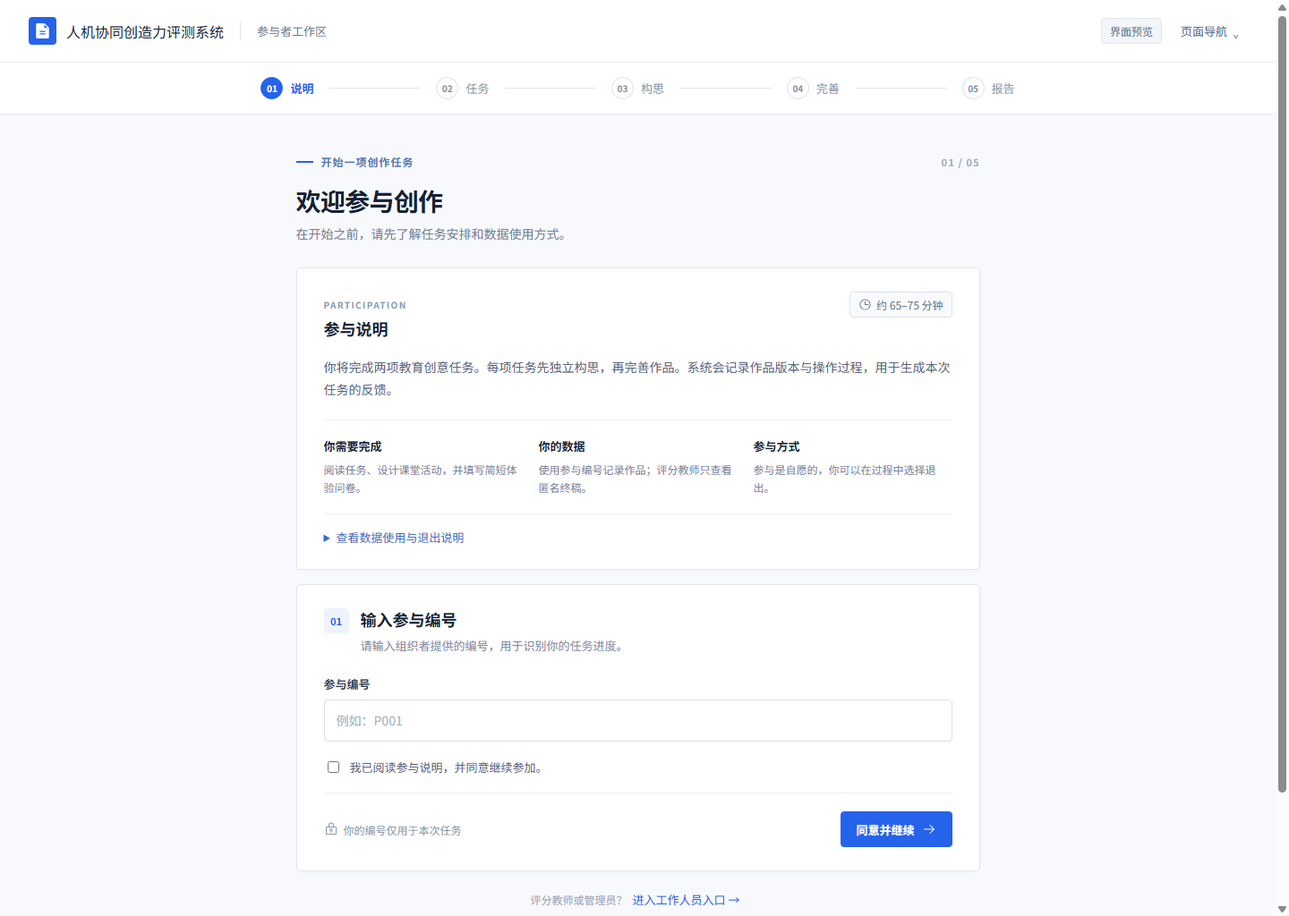
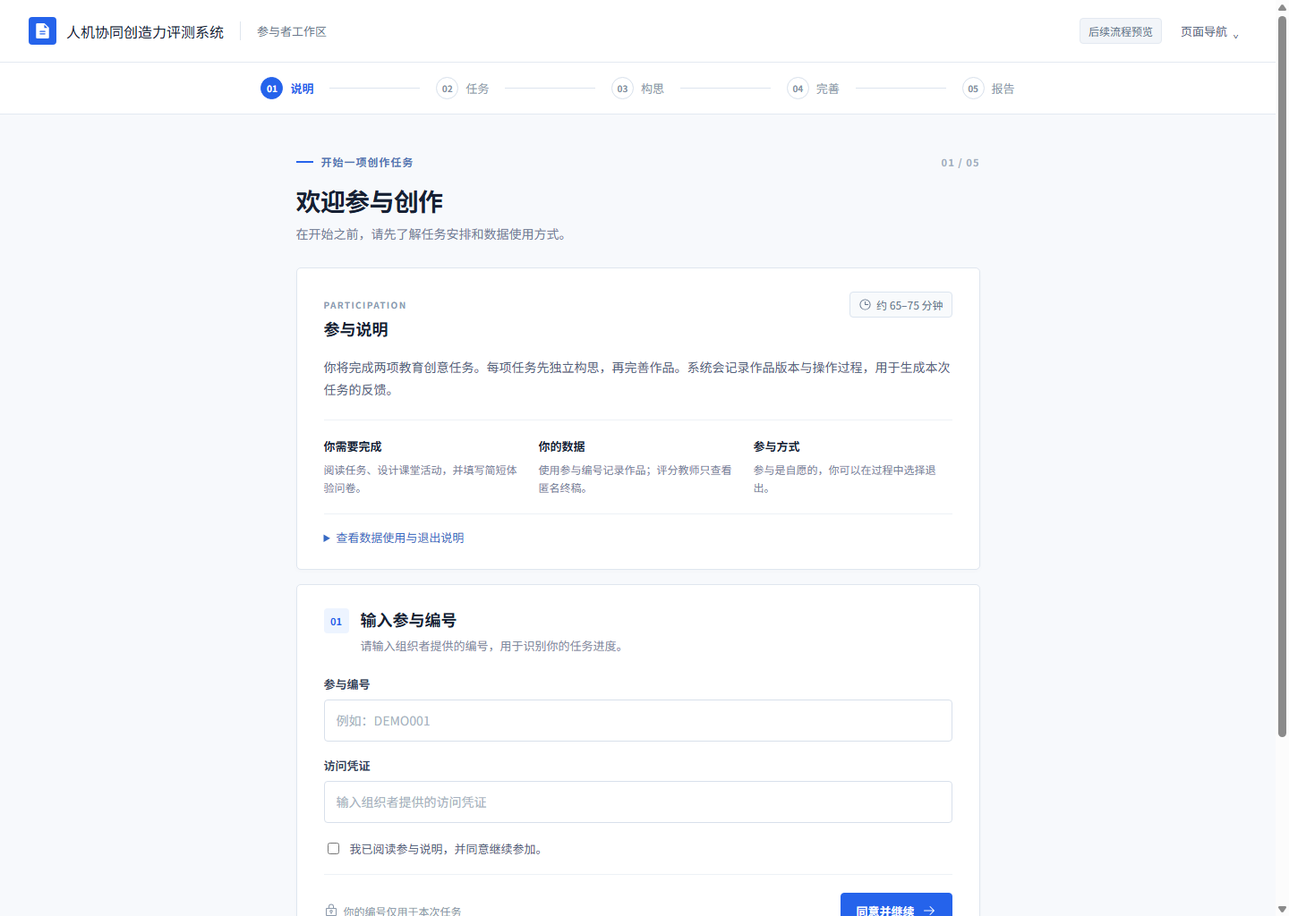
feat: connect participant entry to backend

diff --git a/前端原型-方案2/src/App.vue b/前端原型-方案2/src/App.vue
@@ -1,7 +1,8 @@
 <script setup lang="ts">
-import { computed, nextTick, ref } from 'vue'
+import { computed, nextTick, onMounted, ref } from 'vue'
 import { PhArrowLeft, PhArrowRight, PhCheck, PhCheckCircle, PhClock, PhDownloadSimple, PhFileText, PhInfo, PhListChecks, PhLockKey, PhSignOut, PhSparkle, PhUsers } from '@phosphor-icons/vue'
 import Workbench from './Workbench.vue'
+import { participantApi, type Assignment } from './participant-api'
 import './portal.css'
 
 type Page = 'join' | 'task' | 'idea' | 'work' | 'submit' | 'survey' | 'break' | 'report' | 'staff' | 'teacher' | 'rating' | 'admin'
@@ -10,6 +11,11 @@ const page = ref<Page>('join')
 const round = ref<1 | 2>(1)
 const previewNav = ref(false)
 const studyCode = ref('')
+const credential = ref('')
+const entryLoading = ref(false)
+const assignment = ref<Assignment | null>(null)
+const csrfToken = ref('')
+const previewEpoch = ref(0)
 const consent = ref(false)
 const staffRole = ref<'teacher' | 'admin'>('teacher')
 const staffName = ref('')
@@ -46,14 +52,29 @@ const pageOptions: { id: Page; group: string; label: string }[] = [
   { id: 'admin', group: '管理员', label: '11 研究管理' },
 ]
 const questions = ['我能够清楚表达自己的设计想法。', '我感觉自己能够控制最终作品。', '这个创作界面容易使用。', '我能够判断活动方案是否可实施。', '我认为这个任务值得投入时间。', 'AI 的建议帮助我探索了新的设计方向。']
-const activeQuestions = computed(() => round.value === 1 ? questions : questions.slice(0, 5))
+const taskForRound = (n: number): 'A' | 'B' => n === 1 ? (assignment.value?.task_code ?? 'A') : (assignment.value?.task_code === 'B' ? 'A' : 'B')
+const activeTask = computed(() => taskForRound(round.value))
+const aiEnabled = computed(() => round.value === 1 ? assignment.value?.condition !== 'INDEPENDENT' : assignment.value?.condition === 'INDEPENDENT')
+const activeQuestions = computed(() => aiEnabled.value ? questions : questions.slice(0, 5))
 const dimensions = [
   { name: '新颖性', hint: '学生任务或活动组织是否具有有意义的新组合。' },
   { name: '教育适切性', hint: '目标、学生参与、学习产出与评价是否相互对应。' },
   { name: '可实施性', hint: '步骤、时间与资源是否清晰，能否在普通学校条件下实施。' },
 ]
 function go(next: Page) { page.value = next; error.value = ''; previewNav.value = false; nextTick(() => document.querySelector('.portal')?.scrollTo(0, 0)) }
-function enter() { if (!studyCode.value.trim()) { error.value = '请输入参与编号'; return }; if (!consent.value) { error.value = '请阅读并确认同意后继续'; return }; go('task') }
+async function loadAssignment() { const sessions = await participantApi.sessions(); const first = sessions.find(item => item.round_no === 1); if (!first?.task_code || !first.condition) throw new Error('未找到已分配的任务，请联系管理员。'); assignment.value = first }
+function clearPreviewState() { previewEpoch.value += 1; assignment.value = null; round.value = 1; ideas.value = ['', '', '']; sections.value = []; reports.value = { 1: [], 2: [] }; reportRound.value = 1; survey.value = [0, 0, 0, 0, 0, 0]; submitted.value = false }
+async function enter() {
+  if (!studyCode.value.trim()) { error.value = '请输入参与编号'; return }
+  if (!credential.value) { error.value = '请输入访问凭证'; return }
+  if (!consent.value) { error.value = '请阅读并确认同意后继续'; return }
+  entryLoading.value = true; error.value = ''
+  try { const identity = await participantApi.login(studyCode.value, credential.value); clearPreviewState(); csrfToken.value = identity.csrf_token; await participantApi.consent(identity.csrf_token); await loadAssignment(); studyCode.value = identity.study_code; credential.value = ''; go('task') }
+  catch (e) { error.value = e instanceof Error ? e.message : '登录失败，请稍后再试。' }
+  finally { entryLoading.value = false }
+}
+onMounted(async () => { try { const identity = await participantApi.me(); if (identity.consented) { studyCode.value = identity.study_code; csrfToken.value = identity.csrf_token; await loadAssignment(); go('task') } } catch { /* No valid saved session; show entry. */ } })
+async function participantLogout() { try { await participantApi.logout(csrfToken.value); clearPreviewState(); csrfToken.value = ''; studyCode.value = ''; credential.value = ''; consent.value = false; go('join') } catch (e) { flash(e instanceof Error ? e.message : '退出失败，请稍后再试。') } }
 function staffLogin() { if (!staffName.value.trim() || !staffPassword.value) { error.value = '请输入账号和密码'; return }; go(staffRole.value) }
 function continueFromWorkbench(value: Section[]) { sections.value = value; go('submit') }
 function submitSurvey() { if (survey.value.slice(0, activeQuestions.value.length).some(v => !v)) { error.value = '请先回答所有题目'; return }; reportRound.value = round.value; go(round.value === 1 ? 'break' : 'report') }
@@ -65,18 +86,19 @@ function printReport() { window.print() }
 </script>
 
 <template>
-  <Workbench v-show="page === 'work' && round === 1" :active="page === 'work' && round === 1" task="A" @back="go('idea')" @continue="continueFromWorkbench" />
-  <Workbench v-show="page === 'work' && round === 2" :active="page === 'work' && round === 2" task="B" @back="go('idea')" @continue="continueFromWorkbench" />
+  <Workbench :key="'A-' + previewEpoch" v-show="page === 'work' && activeTask === 'A'" :active="page === 'work' && activeTask === 'A'" :ai-enabled="aiEnabled" task="A" @back="go('idea')" @continue="continueFromWorkbench" />
+  <Workbench :key="'B-' + previewEpoch" v-show="page === 'work' && activeTask === 'B'" :active="page === 'work' && activeTask === 'B'" :ai-enabled="aiEnabled" task="B" @back="go('idea')" @continue="continueFromWorkbench" />
   <div v-if="page !== 'work'" class="portal">
     <header class="portal-header">
       <button class="portal-brand" type="button" @click="go('join')"><span class="portal-logo"><PhFileText :size="21" weight="fill" /></span><span>人机协同创造力评测系统</span></button>
       <span class="portal-divider"></span><span class="portal-context">{{ role === 'participant' ? '参与者工作区' : role === 'staff' ? '工作人员入口' : role === 'teacher' ? '教师评分工作区' : '研究管理工作区' }}</span>
       <div class="portal-header-right">
-        <span class="demo-label">界面预览</span>
+        <span class="demo-label">后续流程预览</span>
         <div class="preview-menu-wrap"><button class="quiet-button" type="button" :aria-expanded="previewNav" @click="previewNav = !previewNav">页面导航 <span>⌄</span></button>
           <div v-if="previewNav" class="preview-menu"><template v-for="group in ['参与者', '评分教师', '管理员']" :key="group"><div class="menu-caption">{{ group }}</div><button v-for="item in pageOptions.filter(p => p.group === group)" :key="item.id" type="button" @click="go(item.id)">{{ item.label }}</button></template></div>
         </div>
-        <button v-if="role === 'teacher' || role === 'admin'" class="quiet-button" type="button" @click="go('staff')"><PhSignOut :size="17" /> 退出</button>
+        <button v-if="role === 'participant' && assignment" class="quiet-button" type="button" @click="participantLogout"><PhSignOut :size="17" /> 退出登录</button>
+        <button v-else-if="role === 'teacher' || role === 'admin'" class="quiet-button" type="button" @click="go('staff')"><PhSignOut :size="17" /> 退出</button>
       </div>
     </header>
 
@@ -87,26 +109,26 @@ function printReport() { window.print() }
       <div class="eyebrow"><span class="eyebrow-line"></span> 开始一项创作任务 <span class="eyebrow-index">01 / 05</span></div>
       <div class="page-title-block"><h1>欢迎参与创作</h1><p>在开始之前，请先了解任务安排和数据使用方式。</p></div>
       <section class="surface intro-surface"><div class="surface-heading"><div><span class="section-kicker">PARTICIPATION</span><h2>参与说明</h2></div><span class="small-tag"><PhClock :size="15" /> 约 65–75 分钟</span></div><p>你将完成两项教育创意任务。每项任务先独立构思，再完善作品。系统会记录作品版本与操作过程，用于生成本次任务的反馈。</p><div class="info-grid"><div><strong>你需要完成</strong><span>阅读任务、设计课堂活动，并填写简短体验问卷。</span></div><div><strong>你的数据</strong><span>使用参与编号记录作品；评分教师只查看匿名终稿。</span></div><div><strong>参与方式</strong><span>参与是自愿的，你可以在过程中选择退出。</span></div></div><details class="inline-details"><summary>查看数据使用与退出说明</summary><p>作品、版本与协作记录将用于本次评测。实际使用前应提供完整的知情说明及联系渠道。</p></details></section>
-      <section class="surface form-surface"><div class="form-title"><span class="section-number">01</span><div><h2>输入参与编号</h2><p>请输入组织者提供的编号，用于识别你的任务进度。</p></div></div><label class="field-label" for="study-code">参与编号</label><input id="study-code" v-model="studyCode" class="field-input" placeholder="例如：P001" /><label class="consent-line"><input v-model="consent" type="checkbox" /> <span>我已阅读参与说明，并同意继续参加。</span></label><p v-if="error" class="form-error" role="alert">{{ error }}</p><div class="form-footer"><span><PhLockKey :size="16" /> 你的编号仅用于本次任务</span><button class="action-primary" type="button" @click="enter">同意并继续 <PhArrowRight :size="16" /></button></div></section>
+      <section class="surface form-surface"><div class="form-title"><span class="section-number">01</span><div><h2>输入参与编号</h2><p>请输入组织者提供的编号，用于识别你的任务进度。</p></div></div><label class="field-label" for="study-code">参与编号</label><input id="study-code" v-model="studyCode" class="field-input" placeholder="例如：DEMO001" /><label class="field-label" for="credential">访问凭证</label><input id="credential" v-model="credential" class="field-input" type="password" autocomplete="current-password" placeholder="输入组织者提供的访问凭证" /><label class="consent-line"><input v-model="consent" type="checkbox" /> <span>我已阅读参与说明，并同意继续参加。</span></label><p v-if="error" class="form-error" role="alert">{{ error }}</p><div class="form-footer"><span><PhLockKey :size="16" /> 你的编号仅用于本次任务</span><button class="action-primary" type="button" :disabled="entryLoading" @click="enter">{{ entryLoading ? "正在验证…" : "同意并继续" }} <PhArrowRight :size="16" /></button></div></section>
       <p class="bottom-note">评分教师或管理员？<button class="inline-link" type="button" @click="go('staff')">进入工作人员入口 →</button></p>
     </main>
 
     <main v-else-if="page === 'staff'" class="page-container narrow-page staff-page"><div class="eyebrow"><span class="eyebrow-line"></span> 工作人员入口 <span class="eyebrow-index">WORKSPACE</span></div><div class="page-title-block"><h1>登录工作区</h1><p>选择你的角色，进入对应的评分或管理工作区。</p></div><section class="surface form-surface"><div class="staff-roles"><button type="button" :class="{ active: staffRole === 'teacher' }" @click="staffRole = 'teacher'"><strong>评分教师</strong><span>查看匿名作品并独立评分</span></button><button type="button" :class="{ active: staffRole === 'admin' }" @click="staffRole = 'admin'"><strong>研究管理员</strong><span>配置任务并查看数据进度</span></button></div><label class="field-label" for="staff-name">账号</label><input id="staff-name" v-model="staffName" class="field-input" autocomplete="username" placeholder="输入工作人员账号" /><label class="field-label" for="staff-password">密码</label><input id="staff-password" v-model="staffPassword" class="field-input" type="password" autocomplete="current-password" placeholder="输入密码" @keyup.enter="staffLogin" /><p v-if="error" class="form-error" role="alert">{{ error }}</p><div class="form-footer staff-footer"><span><PhLockKey :size="16" /> 预览状态：输入任意账号和密码</span><button class="action-primary" type="button" @click="staffLogin">进入工作区 <PhArrowRight :size="16" /></button></div></section><button class="inline-link" type="button" @click="go('join')"><PhArrowLeft :size="15" /> 返回参与者入口</button></main>
 
     <main v-else-if="page === 'task'" class="page-container">
-      <div class="eyebrow"><span class="eyebrow-line"></span> 任务说明 <span class="eyebrow-index">02 / 05</span></div><div class="page-title-block page-title-row"><div><h1>了解你的创作任务</h1><p>阅读任务情境与要求，准备好后再开始计时。</p></div><span class="outlined-tag">{{ round === 1 ? "第一场 · 任务 A" : "第二场 · 任务 B" }}</span></div>
-      <div class="task-layout"><section class="surface task-main"><div class="surface-heading"><div><span class="section-kicker">THE BRIEF</span><h2>{{ round === 1 ? "核验 AI 生成的学习资料" : "评价 AI 生成的学习建议" }}</h2></div><span class="task-id">TASK {{ round === 1 ? "A" : "B" }}</span></div><p class="lead-copy">为高一学生设计一节 40 分钟的 AI 素养课堂活动。</p><h3>情境</h3><p>{{ round === 1 ? "学生经常使用生成式 AI 搜集知识。有时 AI 给出的解释看起来完整，却可能混入错误事实或缺少来源。学校希望帮助学生形成核验 AI 生成资料的习惯。" : "学生使用生成式 AI 制作复习计划，但计划可能忽略个人薄弱环节、时间安排或实际条件。学校希望帮助学生判断和调整 AI 生成的学习建议。" }}</p><h3>你的任务</h3><p>{{ round === 1 ? "设计一项让学生接触可能存在问题的 AI 资料、提出核验办法，并根据核验结果修订资料的课堂活动。" : "设计一项让学生判断 AI 学习建议是否适合具体情况，并根据学习需求改进建议的课堂活动。" }}</p><div class="rule-box"><strong>设计时请注意</strong><ul><li>让学生提出自己的判断，而不只是听教师讲解。</li><li>活动方法应适合普通学校的资源条件。</li><li>教师应能看到学生的判断依据和修订结果。</li></ul></div></section><aside class="task-aside"><section class="surface aside-card"><span class="section-kicker">YOUR OUTPUT</span><h2>你需要提交</h2><ol class="output-list"><li><span>01</span>活动目标</li><li><span>02</span>学生任务</li><li><span>03</span>活动流程与时间</li><li><span>04</span>材料与工具</li><li><span>05</span>评价方式</li></ol></section><section class="surface aside-card"><span class="section-kicker">TIME PLAN</span><h2>任务安排</h2><div class="time-row"><span>独立构思</span><strong>05 <small>分钟</small></strong></div><div class="time-row"><span>完善作品</span><strong>20 <small>分钟</small></strong></div><p class="muted-note">点击开始后进入构思阶段，请尽量一次完成。</p></section></aside></div><div class="page-actions"><button class="action-secondary" type="button" @click="go('join')"><PhArrowLeft :size="16" /> 返回</button><button class="action-primary" type="button" @click="go('idea')">我已理解，开始构思 <PhArrowRight :size="16" /></button></div>
+      <div class="eyebrow"><span class="eyebrow-line"></span> 任务说明 <span class="eyebrow-index">02 / 05</span></div><div class="page-title-block page-title-row"><div><h1>了解你的创作任务</h1><p>阅读任务情境与要求，准备好后再开始计时。</p></div><span class="outlined-tag">{{ round === 1 ? "第一场" : "第二场" }} · 任务 {{ activeTask }}</span></div>
+      <div v-if="assignment" class="notice-strip"><PhInfo :size="19" /><span>编号、同意记录与任务分配已连接服务；创作、评分和 AI 暂为界面预览。</span></div><div class="task-layout"><section class="surface task-main"><div class="surface-heading"><div><span class="section-kicker">THE BRIEF</span><h2>{{ activeTask === "A" ? "核验 AI 生成的学习资料" : "评价 AI 生成的学习建议" }}</h2></div><span class="task-id">TASK {{ activeTask }}</span></div><p class="lead-copy">为高一学生设计一节 40 分钟的 AI 素养课堂活动。</p><h3>情境</h3><p>{{ activeTask === "A" ? "学生经常使用生成式 AI 搜集知识。有时 AI 给出的解释看起来完整，却可能混入错误事实或缺少来源。学校希望帮助学生形成核验 AI 生成资料的习惯。" : "学生使用生成式 AI 制作复习计划，但计划可能忽略个人薄弱环节、时间安排或实际条件。学校希望帮助学生判断和调整 AI 生成的学习建议。" }}</p><h3>你的任务</h3><p>{{ activeTask === "A" ? "设计一项让学生接触可能存在问题的 AI 资料、提出核验办法，并根据核验结果修订资料的课堂活动。" : "设计一项让学生判断 AI 学习建议是否适合具体情况，并根据学习需求改进建议的课堂活动。" }}</p><div class="rule-box"><strong>设计时请注意</strong><ul><li>让学生提出自己的判断，而不只是听教师讲解。</li><li>活动方法应适合普通学校的资源条件。</li><li>教师应能看到学生的判断依据和修订结果。</li></ul></div></section><aside class="task-aside"><section class="surface aside-card"><span class="section-kicker">YOUR OUTPUT</span><h2>你需要提交</h2><ol class="output-list"><li><span>01</span>活动目标</li><li><span>02</span>学生任务</li><li><span>03</span>活动流程与时间</li><li><span>04</span>材料与工具</li><li><span>05</span>评价方式</li></ol></section><section class="surface aside-card"><span class="section-kicker">TIME PLAN</span><h2>任务安排</h2><div class="time-row"><span>独立构思</span><strong>05 <small>分钟</small></strong></div><div class="time-row"><span>完善作品</span><strong>20 <small>分钟</small></strong></div><p class="muted-note">点击开始后进入构思阶段，请尽量一次完成。</p></section></aside></div><div class="page-actions"><button class="action-secondary" type="button" @click="go('join')"><PhArrowLeft :size="16" /> 返回</button><button class="action-primary" type="button" @click="go('idea')">我已理解，开始构思 <PhArrowRight :size="16" /></button></div>
     </main>
 
     <main v-else-if="page === 'idea'" class="page-container medium-page"><div class="eyebrow"><span class="eyebrow-line"></span> 独立构思 <span class="eyebrow-index">03 / 05</span></div><div class="page-title-block page-title-row"><div><h1>先写下你的想法</h1><p>不用追求完整，记录你最初的判断与设计方向。</p></div><div class="time-pill"><PhClock :size="18" /><span>剩余时间</span><strong>05:00</strong></div></div><div class="notice-strip"><PhInfo :size="19" /><span>这一阶段请先独立思考。后续可以继续完善这些想法。</span></div><section class="surface idea-card"><div v-for="(question, index) in ['我想解决的关键问题是什么？', '我准备让学生做什么？', '我怎样判断学习活动是否有效？']" :key="question" class="idea-field"><label :for="'idea-' + index"><span>{{ String(index + 1).padStart(2, '0') }}</span>{{ question }}</label><p>{{ ['例如：学生如何判断 AI 资料是否可信。', '写下你想到的核心活动或学生任务。', '可以考虑学生的可见成果和教师的观察方式。'][index] }}</p><textarea :id="'idea-' + index" v-model="ideas[index]" rows="3" placeholder="在这里记录你的初步想法…"></textarea></div></section><div class="page-actions"><button class="action-secondary" type="button" @click="go('task')"><PhArrowLeft :size="16" /> 返回任务</button><div class="action-group"><span class="save-hint">想法仅在当前预览中保留</span><button class="action-primary" type="button" @click="go('work')">保存想法，进入完善 <PhArrowRight :size="16" /></button></div></div></main>
 
-    <main v-else-if="page === 'submit'" class="page-container medium-page"><div class="eyebrow"><span class="eyebrow-line"></span> 提交作品 <span class="eyebrow-index">04 / 05</span></div><div class="page-title-block"><h1>检查并提交作品</h1><p>提交前请确认五个部分。正式系统中，提交后作品将被锁定。</p></div><div class="notice-strip"><PhInfo :size="19" /><span>当前为界面预览，展示的是本次编辑内容；提交不会发送到服务器。</span></div><section class="surface final-preview"><div class="surface-heading"><div><span class="section-kicker">FINAL REVIEW</span><h2>课堂活动方案</h2></div><span class="outlined-tag">任务 {{ round === 1 ? "A" : "B" }}</span></div><template v-if="sections.length"><section v-for="section in sections" :key="section.label" class="final-section"><h3>{{ section.title }}</h3><div class="preview-html" v-html="section.html"></div></section></template><div v-else class="empty-state">从创作工作台进入后，这里会展示五个章节的内容。<button class="inline-link" type="button" @click="go('work')">前往创作工作台</button></div></section><div class="page-actions"><button class="action-secondary" type="button" @click="go('work')"><PhArrowLeft :size="16" /> 返回修改</button><button class="action-primary" type="button" @click="submitWork">确认提交，填写问卷 <PhArrowRight :size="16" /></button></div></main>
+    <main v-else-if="page === 'submit'" class="page-container medium-page"><div class="eyebrow"><span class="eyebrow-line"></span> 提交作品 <span class="eyebrow-index">04 / 05</span></div><div class="page-title-block"><h1>检查并提交作品</h1><p>提交前请确认五个部分。正式系统中，提交后作品将被锁定。</p></div><div class="notice-strip"><PhInfo :size="19" /><span>当前为界面预览，展示的是本次编辑内容；提交不会发送到服务器。</span></div><section class="surface final-preview"><div class="surface-heading"><div><span class="section-kicker">FINAL REVIEW</span><h2>课堂活动方案</h2></div><span class="outlined-tag">任务 {{ activeTask }}</span></div><template v-if="sections.length"><section v-for="section in sections" :key="section.label" class="final-section"><h3>{{ section.title }}</h3><div class="preview-html" v-html="section.html"></div></section></template><div v-else class="empty-state">从创作工作台进入后，这里会展示五个章节的内容。<button class="inline-link" type="button" @click="go('work')">前往创作工作台</button></div></section><div class="page-actions"><button class="action-secondary" type="button" @click="go('work')"><PhArrowLeft :size="16" /> 返回修改</button><button class="action-primary" type="button" @click="submitWork">确认提交，填写问卷 <PhArrowRight :size="16" /></button></div></main>
 
     <main v-else-if="page === 'survey'" class="page-container medium-page"><div class="eyebrow"><span class="eyebrow-line"></span> 体验反馈 <span class="eyebrow-index">04 / 05</span></div><div class="page-title-block"><h1>分享你的使用体验</h1><p>请根据刚才的任务选择符合你感受的选项。没有对错之分。</p></div><div v-if="submitted" class="success-strip"><PhCheckCircle :size="20" /> 作品已进入提交预览，接下来请完成问卷。</div><section class="surface survey-card"><div class="survey-scale"><span>1　非常不同意</span><span>5　非常同意</span></div><div v-for="(question, index) in activeQuestions" :key="question" class="survey-question"><div><span class="question-number">{{ String(index + 1).padStart(2, '0') }}</span><strong>{{ question }}</strong><small v-if="index === 5">AI 协同场次</small></div><fieldset :aria-label="question"><label v-for="n in 5" :key="n" :class="{ selected: survey[index] === n }"><input v-model="survey[index]" type="radio" :name="'survey-' + index" :value="n" />{{ n }}</label></fieldset></div></section><p v-if="error" class="form-error" role="alert">{{ error }}</p><div class="page-actions"><button class="action-secondary" type="button" @click="go('submit')"><PhArrowLeft :size="16" /> 返回</button><button class="action-primary" type="button" @click="submitSurvey">提交反馈 <PhArrowRight :size="16" /></button></div></main>
 
-    <main v-else-if="page === 'break'" class="page-container narrow-page"><section class="surface break-card"><span class="completion-icon"><PhCheckCircle :size="34" /></span><span class="section-kicker">SESSION COMPLETE</span><h1>第一场任务已完成</h1><p>你已经完成了第一场创作和体验反馈。可以休息片刻，再开始下一场任务。</p><div class="break-summary"><div><span>第一场</span><strong>任务 A</strong><small>已完成</small></div><span class="summary-line"></span><div><span>第二场</span><strong>任务 B</strong><small>待开始</small></div></div><button class="action-primary" type="button" @click="go('report')">查看本场报告 <PhArrowRight :size="16" /></button><button class="inline-link" type="button" @click="startSecond">准备开始第二场</button></section></main>
+    <main v-else-if="page === 'break'" class="page-container narrow-page"><section class="surface break-card"><span class="completion-icon"><PhCheckCircle :size="34" /></span><span class="section-kicker">SESSION COMPLETE</span><h1>第一场任务已完成</h1><p>你已经完成了第一场创作和体验反馈。可以休息片刻，再开始下一场任务。</p><div class="break-summary"><div><span>第一场</span><strong>任务 {{ taskForRound(1) }}</strong><small>已完成</small></div><span class="summary-line"></span><div><span>第二场</span><strong>任务 {{ taskForRound(2) }}</strong><small>待开始</small></div></div><button class="action-primary" type="button" @click="go('report')">查看本场报告 <PhArrowRight :size="16" /></button><button class="inline-link" type="button" @click="startSecond">准备开始第二场</button></section></main>
 
-    <main v-else-if="page === 'report'" class="page-container"><div class="eyebrow"><span class="eyebrow-line"></span> 个人报告 <span class="eyebrow-index">05 / 05</span></div><div class="page-title-block page-title-row"><div><h1>本次创作报告</h1><p>查看作品、评价来源与创作过程，了解这次任务的表现。</p></div><span class="outlined-tag">任务 {{ reportRound === 1 ? "A" : "B" }} · 报告预览</span></div><div class="report-switch" aria-label="选择场次"><button v-for="n in ([1, 2] as const)" :key="n" type="button" :disabled="!reports[n].length" :class="{ active: reportRound === n }" @click="reportRound = n">第 {{ n }} 场 · 任务 {{ n === 1 ? "A" : "B" }}</button></div><div class="report-layout"><div><section class="surface report-card"><div class="surface-heading"><div><span class="section-kicker">TEACHER REVIEW</span><h2>教师评价</h2></div><span class="status-tag pending">等待评分</span></div><div class="pending-panel"><PhClock :size="24" /><div><strong>教师评分尚未完成</strong><p>两位教师完成独立评分后，将在这里展示三个维度的评价和评语。</p></div></div><div class="dimension-placeholder"><div v-for="d in dimensions" :key="d.name"><span>{{ d.name }}</span><div class="empty-bar"></div><small>待评分</small></div></div></section><section class="surface report-card"><div class="surface-heading"><div><span class="section-kicker">AI ASSISTANCE</span><h2>AI 辅助评价</h2></div><span class="status-tag neutral">待生成</span></div><p class="muted-copy">提交后的辅助评价将在这里显示评分依据和改进建议，与教师评分分别呈现。</p></section><section class="surface report-card"><div class="surface-heading"><div><span class="section-kicker">YOUR WORK</span><h2>作品内容</h2></div></div><div v-if="reportSections.length" class="report-sections"><div v-for="section in reportSections" :key="section.label"><strong>{{ section.title }}</strong><div class="preview-html" v-html="section.html"></div></div></div><p v-else class="muted-copy">完成创作后，这里将展示你的最终作品。</p></section></div><aside><section class="surface report-card"><span class="section-kicker">PROCESS</span><h2>创作过程</h2><div class="timeline"><div><span></span><strong>独立构思</strong><small>记录最初的活动想法</small></div><div><span></span><strong>完善作品</strong><small>编辑五个作品章节</small></div><div><span></span><strong>提交与反馈</strong><small>提交终稿并完成问卷</small></div><div><span></span><strong>等待评价</strong><small>教师评分完成后更新</small></div></div></section><p class="report-footnote">本报告反映本次任务中的表现，评价来源和生成时间将在正式系统中标注。</p></aside></div><div class="page-actions"><button class="action-secondary" type="button" @click="go('break')"><PhArrowLeft :size="16" /> 返回场次</button><button class="action-secondary" type="button" @click="printReport"><PhDownloadSimple :size="16" /> 打印报告</button></div></main>
+    <main v-else-if="page === 'report'" class="page-container"><div class="eyebrow"><span class="eyebrow-line"></span> 个人报告 <span class="eyebrow-index">05 / 05</span></div><div class="page-title-block page-title-row"><div><h1>本次创作报告</h1><p>查看作品、评价来源与创作过程，了解这次任务的表现。</p></div><span class="outlined-tag">任务 {{ taskForRound(reportRound) }} · 报告预览</span></div><div class="report-switch" aria-label="选择场次"><button v-for="n in ([1, 2] as const)" :key="n" type="button" :disabled="!reports[n].length" :class="{ active: reportRound === n }" @click="reportRound = n">第 {{ n }} 场 · 任务 {{ taskForRound(n) }}</button></div><div class="report-layout"><div><section class="surface report-card"><div class="surface-heading"><div><span class="section-kicker">TEACHER REVIEW</span><h2>教师评价</h2></div><span class="status-tag pending">等待评分</span></div><div class="pending-panel"><PhClock :size="24" /><div><strong>教师评分尚未完成</strong><p>两位教师完成独立评分后，将在这里展示三个维度的评价和评语。</p></div></div><div class="dimension-placeholder"><div v-for="d in dimensions" :key="d.name"><span>{{ d.name }}</span><div class="empty-bar"></div><small>待评分</small></div></div></section><section class="surface report-card"><div class="surface-heading"><div><span class="section-kicker">AI ASSISTANCE</span><h2>AI 辅助评价</h2></div><span class="status-tag neutral">待生成</span></div><p class="muted-copy">提交后的辅助评价将在这里显示评分依据和改进建议，与教师评分分别呈现。</p></section><section class="surface report-card"><div class="surface-heading"><div><span class="section-kicker">YOUR WORK</span><h2>作品内容</h2></div></div><div v-if="reportSections.length" class="report-sections"><div v-for="section in reportSections" :key="section.label"><strong>{{ section.title }}</strong><div class="preview-html" v-html="section.html"></div></div></div><p v-else class="muted-copy">完成创作后，这里将展示你的最终作品。</p></section></div><aside><section class="surface report-card"><span class="section-kicker">PROCESS</span><h2>创作过程</h2><div class="timeline"><div><span></span><strong>独立构思</strong><small>记录最初的活动想法</small></div><div><span></span><strong>完善作品</strong><small>编辑五个作品章节</small></div><div><span></span><strong>提交与反馈</strong><small>提交终稿并完成问卷</small></div><div><span></span><strong>等待评价</strong><small>教师评分完成后更新</small></div></div></section><p class="report-footnote">本报告反映本次任务中的表现，评价来源和生成时间将在正式系统中标注。</p></aside></div><div class="page-actions"><button class="action-secondary" type="button" @click="go('break')"><PhArrowLeft :size="16" /> 返回场次</button><button class="action-secondary" type="button" @click="printReport"><PhDownloadSimple :size="16" /> 打印报告</button></div></main>
 
     <main v-else-if="page === 'teacher'" class="page-container"><div class="eyebrow"><span class="eyebrow-line"></span> 教师工作台 <span class="eyebrow-index">REVIEW</span></div><div class="page-title-block page-title-row"><div><h1>待评作品</h1><p>请依据量规独立评分。作品已匿名处理，评分提交后将锁定。</p></div><span class="outlined-tag">评分教师 · 演示</span></div><div class="summary-grid three"><div class="summary-card"><span>分配作品</span><strong>03</strong><small>当前批次</small></div><div class="summary-card"><span>待完成</span><strong>{{ ratingSubmitted ? '02' : '03' }}</strong><small>需要独立评分</small></div><div class="summary-card"><span>已提交</span><strong>{{ ratingSubmitted ? '01' : '00' }}</strong><small>评分已锁定</small></div></div><section class="surface table-surface"><div class="table-title"><div><h2>作品列表</h2><p>点击作品编号查看终稿和评分量规。</p></div><span class="muted-copy">共 3 份</span></div><div class="table-scroll"><table><thead><tr><th>匿名作品编号</th><th>任务</th><th>任务版本</th><th>评分状态</th><th></th></tr></thead><tbody><tr v-for="(work, index) in ['W-8F32', 'W-4C17', 'W-9B06']" :key="work"><td><strong>{{ work }}</strong></td><td>{{ index === 1 ? '评价 AI 生成的学习建议' : '核验 AI 生成的学习资料' }}</td><td>V1.0</td><td><span class="status-tag" :class="ratingSubmitted && index === 0 ? 'success' : 'pending'">{{ ratingSubmitted && index === 0 ? '已提交' : '待评分' }}</span></td><td><button class="table-link" type="button" @click="go('rating')">{{ ratingSubmitted && index === 0 ? '查看评分' : '开始评分' }} →</button></td></tr></tbody></table></div></section><p class="bottom-note">预览中三个条目共用同一份示例作品，正式系统将按分配结果显示。</p></main>
 

diff --git a/前端原型-方案2/src/portal.css b/前端原型-方案2/src/portal.css
@@ -48,5 +48,5 @@
 .task-switch { display: flex; gap: 8px; margin-top: 24px; }.task-switch button { padding: 8px 14px; border: 1px solid #dce4ee; border-radius: 4px; background: #fff; color: #61748e; font-size: 13px; }.task-switch button.active { border-color: #92b4ed; background: #f1f6ff; color: #2563eb; }
 .portal-footer { display: flex; justify-content: space-between; max-width: 1192px; margin: 0 auto; padding: 20px 0 25px; border-top: 1px solid #e7edf4; color: #a6b1c1; font-size: 11px; }.portal-toast { position: fixed; z-index: 80; right: 28px; bottom: 28px; padding: 13px 17px; border: 1px solid #d4e1f2; border-radius: 5px; background: white; color: #456385; box-shadow: 0 12px 30px #2238581a; font-size: 13px; }
 @media (max-width: 800px) { .portal-header { padding: 0 16px; }.portal-context, .portal-divider, .demo-label { display: none; }.portal-brand { font-size: 13px; }.page-container { padding: 30px 16px 55px; }.step-line { width: 18px; margin: 0 7px; }.flow-step { font-size: 12px; }.step-number { width: 21px; height: 21px; margin-right: 4px; }.task-layout, .report-layout, .admin-layout, .rating-layout { grid-template-columns: 1fr; }.task-aside { grid-template-columns: 1fr 1fr; }.summary-grid.four { grid-template-columns: repeat(2, 1fr); }.portal-footer { margin: 0 16px; }.survey-question { align-items: flex-start; flex-direction: column; }.survey-scale { justify-content: space-between; }.page-title-block h1, .break-card h1 { font-size: 24px; } }
-@media (max-width: 500px) { .portal-brand span:last-child { max-width: 170px; overflow: hidden; text-overflow: ellipsis; }.portal-header-right { gap: 0; }.flow-nav-inner { padding: 0 8px; }.step-line { width: 8px; margin: 0 4px; }.step-number { display: none; }.intro-surface, .form-surface, .task-main, .idea-card, .final-preview, .report-card, .config-card, .review-work, .rating-card { padding: 20px; }.info-grid, .task-aside { grid-template-columns: 1fr; }.info-grid { gap: 14px; }.page-title-row, .form-footer { align-items: flex-start; flex-direction: column; }.page-actions { align-items: stretch; flex-wrap: wrap; }.action-group { width: 100%; justify-content: space-between; }.summary-grid.three { grid-template-columns: 1fr; }.break-card { padding: 35px 20px; }.export-list { grid-template-columns: 1fr; }.portal-footer span:last-child { display: none; } }
+@media (max-width: 500px) { .portal-header { gap: 8px; }.portal-brand span:last-child { max-width: 125px; overflow: hidden; text-overflow: ellipsis; }.portal-header-right { gap: 0; }.portal-header-right .quiet-button { padding: 6px; font-size: 12px !important; }.flow-nav-inner { padding: 0 8px; }.step-line { width: 8px; margin: 0 4px; }.step-number { display: none; }.intro-surface, .form-surface, .task-main, .idea-card, .final-preview, .report-card, .config-card, .review-work, .rating-card { padding: 20px; }.info-grid, .task-aside { grid-template-columns: 1fr; }.info-grid { gap: 14px; }.page-title-row, .form-footer { align-items: flex-start; flex-direction: column; }.page-actions { align-items: stretch; flex-wrap: wrap; }.action-group { width: 100%; justify-content: space-between; }.summary-grid.three { grid-template-columns: 1fr; }.break-card { padding: 35px 20px; }.export-list { grid-template-columns: 1fr; }.portal-footer span:last-child { display: none; } }
 @media print { .portal-header, .flow-nav, .page-actions, .portal-footer { display: none; }.portal { height: auto; overflow: visible; }.page-container { padding: 0; }.surface { break-inside: avoid; } }

diff --git a/前端原型-方案2/src/Workbench.vue b/前端原型-方案2/src/Workbench.vue
@@ -20,7 +20,7 @@ import {
   PhX,
 } from '@phosphor-icons/vue'
 
-const props = defineProps<{ active: boolean; task: 'A' | 'B' }>()
+const props = defineProps<{ active: boolean; task: 'A' | 'B'; aiEnabled: boolean }>()
 const emit = defineEmits<{ back: []; continue: [sections: { label: string; title: string; html: string }[]] }>()
 
 type SectionId = 'goal' | 'student' | 'flow' | 'resource' | 'assessment'
@@ -98,8 +98,8 @@ const chatOpen = ref(false)
 const chatInput = ref('')
 const chatMessages = ref<{ role: 'user' | 'assistant'; text: string }[]>([])
 const previewOpen = ref(false)
-const originalSuggestion = '在“小组核验与信息查证”阶段增加具体的分工说明，例如设置“资料检索、信息比对、结论撰写、汇报准备”四个角色，以提高小组协作的清晰度。'
-const adoptText = ref(originalSuggestion)
+const originalSuggestion = computed(() => props.task === 'A' ? '在“小组核验与信息查证”阶段增加具体的分工说明，例如设置“资料检索、信息比对、结论撰写、汇报准备”四个角色，以提高小组协作的清晰度。' : '让学生分别从学习目标、可用时间和个人薄弱环节三个方面检查 AI 生成的复习计划，并解释调整依据。')
+const adoptText = ref(originalSuggestion.value)
 const toast = ref('')
 const previewCloseButton = ref<HTMLButtonElement | null>(null)
 const adoptTextarea = ref<HTMLTextAreaElement | null>(null)
@@ -199,7 +199,7 @@ function onPaste(event: ClipboardEvent) {
 async function openAdopt(mode: 'direct' | 'edit') {
   adoptMode.value = mode
   adoptTarget.value = activeId.value
-  adoptText.value = originalSuggestion
+  adoptText.value = originalSuggestion.value
   adoptOpen.value = true
   await nextTick()
   if (mode === 'edit') adoptTextarea.value?.focus()
@@ -362,7 +362,7 @@ onBeforeUnmount(() => {
       </section>
     </main>
 
-    <section v-if="task === 'A'" class="ai-dock" aria-label="AI 建议">
+    <section v-if="aiEnabled" class="ai-dock" aria-label="AI 建议">
       <div class="ai-dock-heading">
         <button class="dock-toggle" type="button" :aria-expanded="adviceExpanded" @click="adviceExpanded = !adviceExpanded">
           <strong>AI 建议</strong>
@@ -373,7 +373,7 @@ onBeforeUnmount(() => {
         <span v-if="!adviceExpanded" class="collapsed-note">点击展开，查看与当前作品相关的建议</span>
       </div>
       <div v-if="adviceExpanded" class="ai-dock-body">
-        <p v-if="suggestionState === 'pending'" class="suggestion-text">建议在“小组核验与信息查证”阶段增加更具体的分工说明，例如设置“资料检索 / 信息比对 / 结论撰写 / 汇报准备”四个角色，这样可以提升小组协作的清晰度，也更有利于保证 20 分钟内完成任务。</p>
+        <p v-if="suggestionState === 'pending'" class="suggestion-text">{{ originalSuggestion }}</p>
         <p v-else-if="suggestionState === 'adopted'" class="suggestion-result"><PhCheckCircle :size="18" />建议已由你确认加入作品；你仍可继续编辑。</p>
         <p v-else class="suggestion-result">你已忽略这条建议，作品内容没有变化。</p>
         <div class="ai-actions">

diff --git a/前端原型-方案2/src/participant-api.ts b/前端原型-方案2/src/participant-api.ts
@@ -1,0 +1,22 @@
+export type Assignment = { id: string; round_no: number; state: string; task_code?: 'A' | 'B'; task_title?: string; condition?: 'AI' | 'INDEPENDENT' }
+type Identity = { study_code: string; consented: boolean; csrf_token: string }
+
+async function request<T>(path: string, options: RequestInit = {}): Promise<T> {
+  let response: Response
+  try {
+    response = await fetch('/api/v1' + path, { credentials: 'same-origin', ...options })
+  } catch {
+    throw new Error('无法连接服务，请检查后端是否运行。')
+  }
+  const result = await response.json().catch(() => ({}))
+  if (!response.ok) throw new Error(typeof result.detail === 'string' ? result.detail : '请求失败，请稍后重试。')
+  return result.data as T
+}
+
+export const participantApi = {
+  login: (study_code: string, credential: string) => request<Identity>('/auth/participant-login', { method: 'POST', headers: { 'Content-Type': 'application/json' }, body: JSON.stringify({ study_code, credential }) }),
+  me: () => request<Identity>('/auth/me'),
+  consent: (csrf: string) => request<{ consented_at: string }>('/participant/consent', { method: 'POST', headers: { 'Content-Type': 'application/json', 'X-CSRF-Token': csrf }, body: JSON.stringify({ consent_version: 'demo-1', agreed: true }) }),
+  sessions: () => request<Assignment[]>('/participant/sessions'),
+  logout: (csrf: string) => request<{ logged_out: boolean }>('/auth/logout', { method: 'POST', headers: { 'X-CSRF-Token': csrf } }),
+}

diff --git a/前端原型-方案2/vite.config.ts b/前端原型-方案2/vite.config.ts
@@ -6,5 +6,6 @@ export default defineConfig({
   server: {
     host: '0.0.0.0',
     allowedHosts: ['terminal.local'],
+    proxy: { '/api': 'http://127.0.0.1:8000' },
   },
 })

diff --git a/前端原型-方案2/README.md b/前端原型-方案2/README.md
@@ -19,10 +19,10 @@ npm run dev -- --host 127.0.0.1 --port 4173 --strictPort
 npm run build
 ```
 
-本机浏览器打开 <http://127.0.0.1:4173/>。参与者入口可输入任意编号并勾选同意；工作人员入口可输入任意账号和密码体验布局。这些输入只用于界面预览。
+先按[后端说明](../backend/README.md)启动服务并创建本地演示参与者，再在浏览器打开 <http://127.0.0.1:4173/>。参与者入口使用创建的编号和凭证；工作人员入口仍只用于界面预览。
 
-在本机有 Chrome 且开发服务器运行时，可执行 `node scripts/qa-pages.mjs` 检查主要流程及视口布局；脚本中的 Chrome 路径按 Windows 默认安装位置设置。
+在本机有 Chrome、前后端服务运行且已创建 S1 演示参与者时，将 `QA_STUDY_CODE` 和 `QA_CREDENTIAL` 设为该参与者的编号和凭证，再执行 `node scripts/qa-pages.mjs`。脚本中的 Chrome 路径按 Windows 默认安装位置设置，凭证不应提交到仓库。
 
 ## 原型边界
 
-当前页面使用内存和示例数据，刷新会重置；计时和保存状态为演示，账号不作真实验证。AI 对话是明确标注的示例回复，提交、评分、配置与导出没有连接后端或数据库。真实系统需要实现服务端保存、权限、模型调用、评分与数据导出，具体见 [项目需求规格](../docs/requirements.md)。
+参与者凭证、演示版同意记录及两场任务分配已接入后端，首场任务从服务读取；第二场衔接与后续创作仍为预览。其他页面使用内存和示例数据，刷新会重置。计时和作品保存状态为演示，工作人员账号尚未接入身份验证。AI 对话是明确标注的示例回复，提交、评分、配置与导出尚未连接后端或数据库；详见[项目需求规格](../docs/requirements.md)。

diff --git a/README.md b/README.md
@@ -4,7 +4,7 @@
 
 ## 当前状态
 
-目前处于**分批实现阶段**。参与者、教师和管理员的主要页面已有前端原型；后端已建立服务基础、数据库迁移和任务版本表。身份、业务流程、真实模型连接和评分等功能仍在开发计划中。界面截图和示例内容仅用于展示设计。
+目前处于**分批实现阶段**。参与者、教师和管理员的主要页面已有前端原型；参与者凭证登录、演示版同意记录和两场任务分配已接入后端。作品持久化、真实模型连接、工作人员身份与评分等功能仍在开发计划中。界面截图和示例内容仅用于展示设计。
 
 ## 文档入口
 
